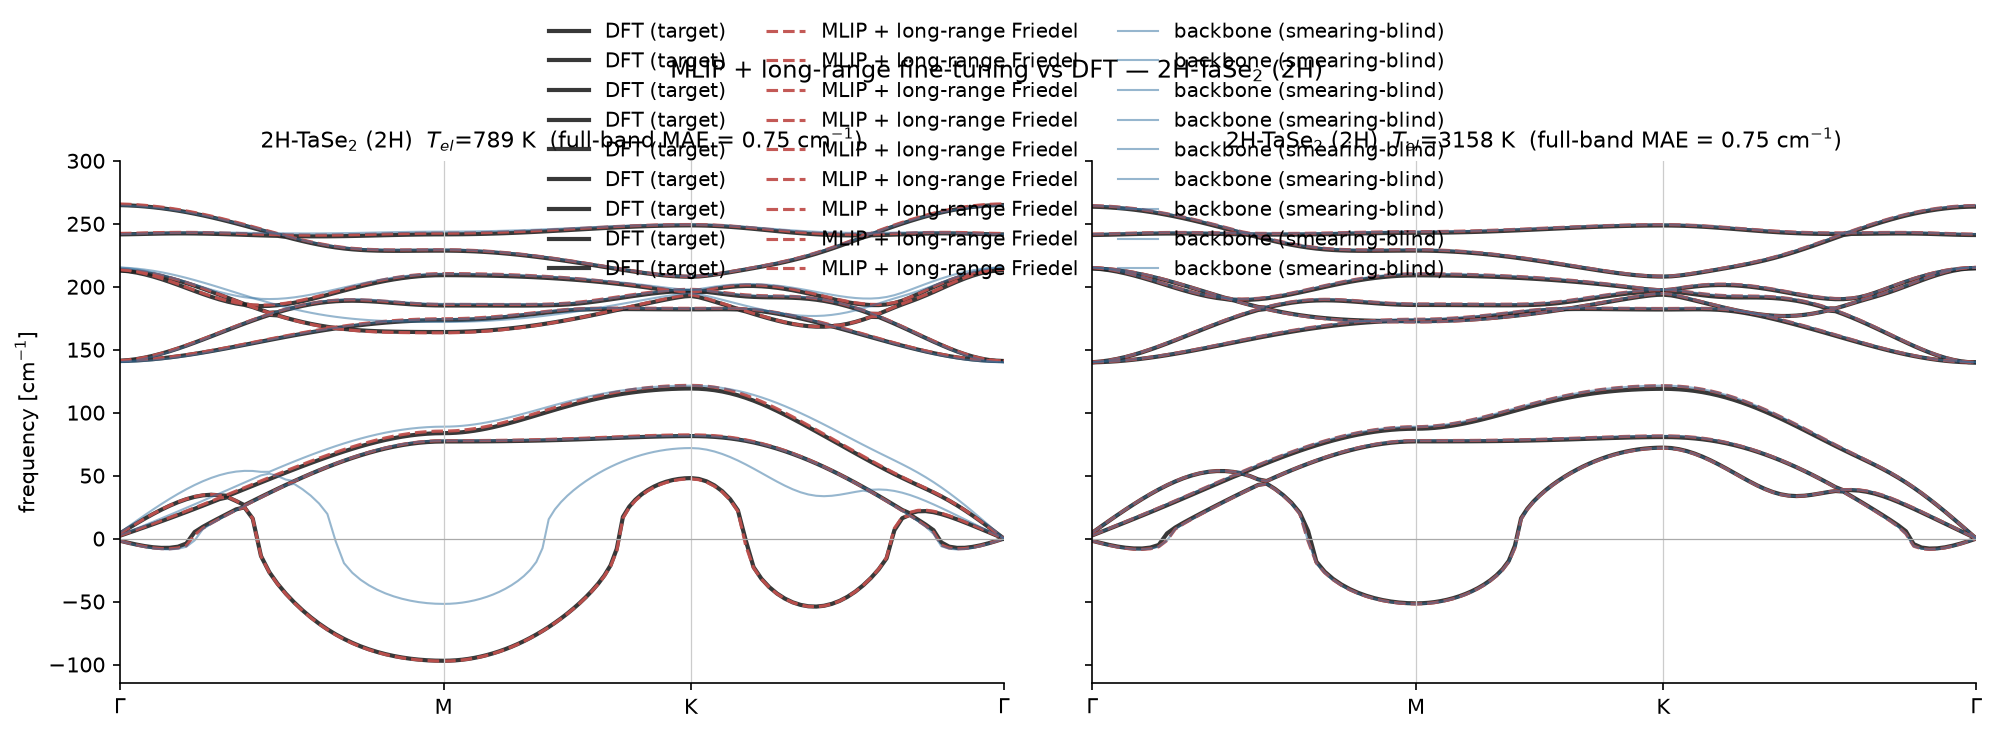
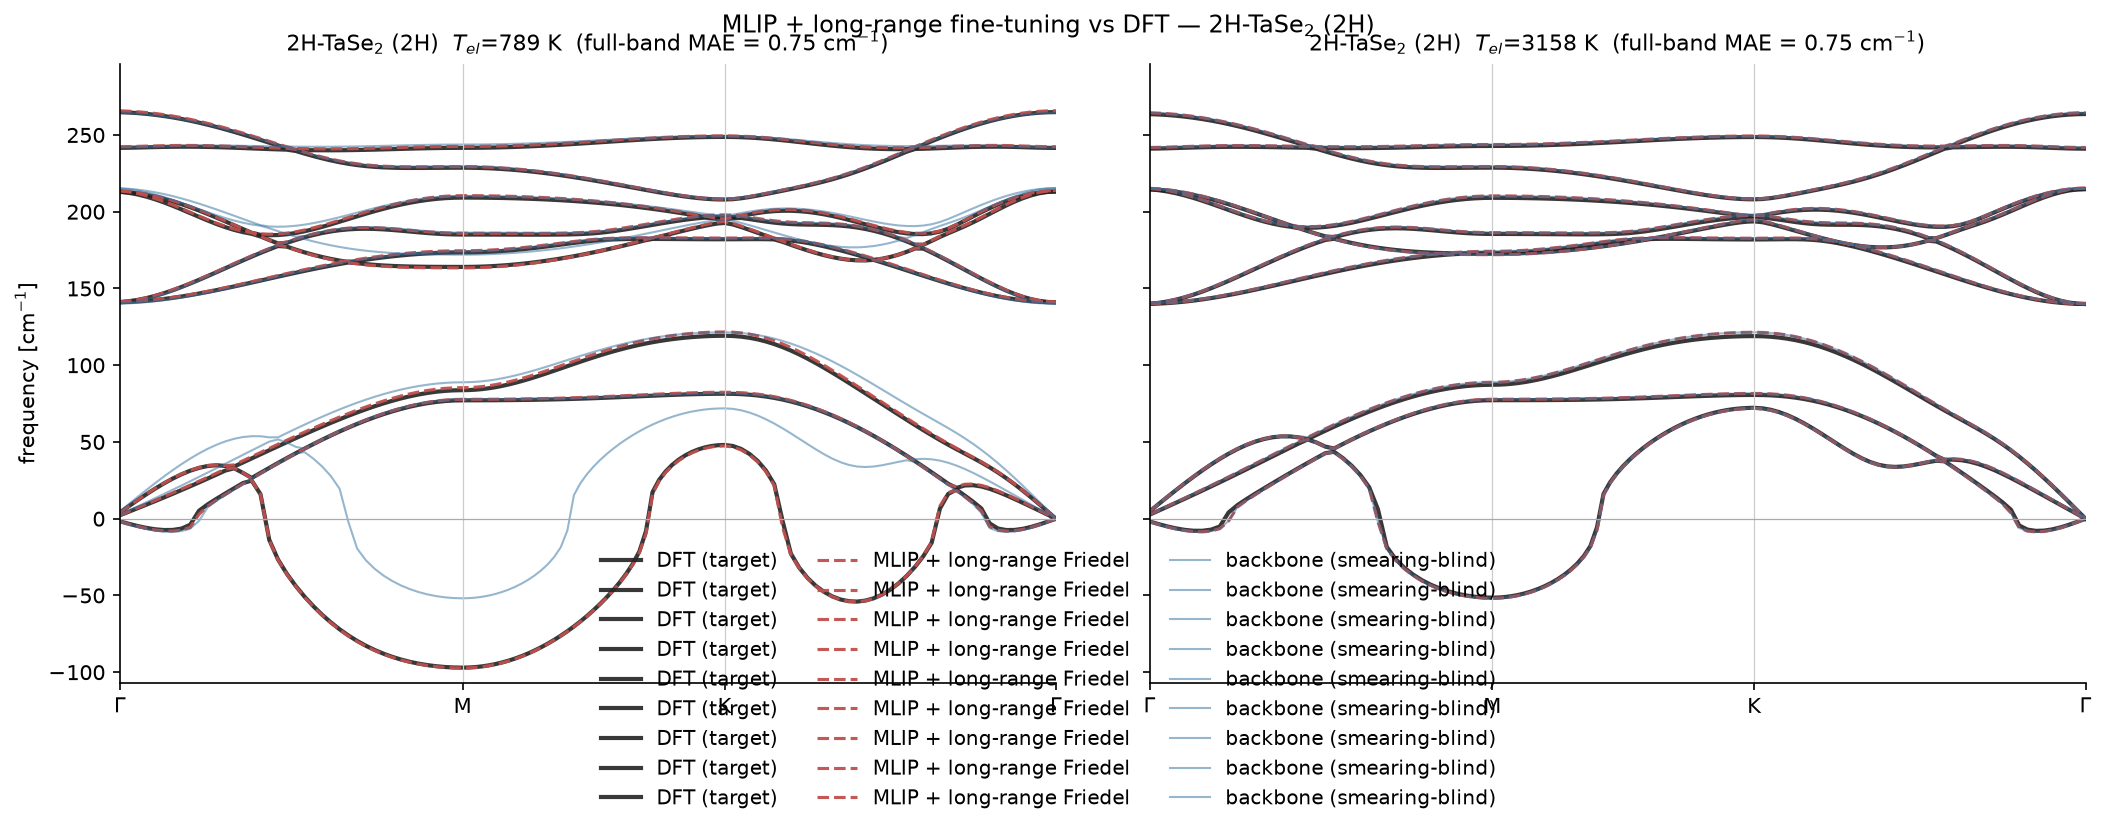
fix all figure issues: kink empty (E) panel (LaTeX filter bug), legend overlap (move to bottom), graphene crop (auto-ylim)
1. kink_vs_Tel_Tlat: (E) panel was empty — filter used LaTeX names ('1T-VSe$_2$') instead of
   plain CSV names ('1T-VSe2'). Fixed: separate filter-name from label.
2. deploy_vs_dft_*: legend moved from top (overlapped suptitle/bands) to bottom; ylim now
   auto-computed from data (graphene optical modes no longer cropped).
3. spectra_E: increased bottom margin (legend clear of panels).
4. spectra_L: legend moved from top to bottom (was clipped at figure edge).

diff --git a/scripts/smearing_kink/plot_phonon_spectra.py b/scripts/smearing_kink/plot_phonon_spectra.py
@@ -111,11 +111,11 @@ def plot_E():
         ax.set_ylabel("frequency [cm$^{-1}$]")
     # single shared legend OUTSIDE (below the panels) — generous bottom margin, no tight crop
     handles, labels = axes.flat[0].get_legend_handles_labels()
-    fig.legend(handles, labels, loc="lower center", ncol=4, bbox_to_anchor=(0.5, 0.015),
+    fig.legend(handles, labels, loc="lower center", ncol=4, bbox_to_anchor=(0.5, 0.005),
                frameon=False, fontsize=10, title="degauss (Ry) — darker = sharper Fermi surface")
     fig.suptitle("(E)-channel: phonon dispersion vs electronic smearing  (Kohn soft mode melts with T$_{el}$=degauss×157888 K)",
-                 fontsize=11.5, y=0.98)
-    fig.subplots_adjust(left=0.07, bottom=0.12, right=0.97, top=0.93, hspace=0.28, wspace=0.13)
+                 fontsize=11.5, y=0.99)
+    fig.subplots_adjust(left=0.07, bottom=0.17, right=0.97, top=0.93, hspace=0.30, wspace=0.13)
     out = SK / "spectra_E_smearing.png"
     fig.savefig(out, dpi=150, bbox_inches="tight"); print("wrote", out)
 
@@ -182,13 +182,13 @@ def plot_L_tdep():
     ax.axhline(0, color="#aaa", lw=0.6)
     ax.set_ylabel("frequency [cm$^{-1}$]"); ax.set_ylim(-15, 360)
     ax.set_xlim(ticks[0], ticks[-1])
-    # legend OUTSIDE (top, horizontal) so it never covers the bands
-    ax.legend(title="$T_{lat}$", loc="upper center", bbox_to_anchor=(0.5, 1.12), ncol=6,
+    # legend OUTSIDE (bottom, horizontal) so it never covers the bands
+    ax.legend(title="$T_{lat}$", loc="upper center", bbox_to_anchor=(0.5, -0.13), ncol=6,
               frameon=False, fontsize=8.5, title_fontsize=9)
     ax.set_title("(L) temperature spectrum — 1T-VSe$_2$  (TDEP effective fc$_2$(T), real freqs)", fontsize=10.5)
     for s in ("top", "right"):
         ax.spines[s].set_visible(False)
-    fig.subplots_adjust(left=0.10, bottom=0.10, right=0.97, top=0.80)
+    fig.subplots_adjust(left=0.10, bottom=0.20, right=0.97, top=0.92)
     out = SK / "spectra_L_temperature.png"
     fig.savefig(out, dpi=150, bbox_inches="tight"); print("wrote", out)
 
@@ -203,14 +203,14 @@ def plot_kink_comparison():
     melt_path = SK / "family_melting.csv"
     if melt_path.exists():
         melt = list(csv.DictReader(open(melt_path)))
-        for mat, col in [("1T-VSe$_2$", "#c0504d"), ("NbSe$_2$", "#2f6f9f"),
-                         ("2H-TaS$_2$", "#2f9f6f"), ("2H-TaSe$_2$", "#9f6f2f")]:
-            rows = sorted([r for r in melt if r["material"] == mat], key=lambda r: float(r["T_el_K"]))
+        for fmat, lab, col in [("1T-VSe2", "1T-VSe$_2$", "#c0504d"), ("NbSe2", "NbSe$_2$", "#2f6f9f"),
+                               ("2H-TaS2", "2H-TaS$_2$", "#2f9f6f"), ("2H-TaSe2", "2H-TaSe$_2$", "#9f6f2f")]:
+            rows = sorted([r for r in melt if r["material"] == fmat], key=lambda r: float(r["T_el_K"]))
             if not rows:
                 continue
             T = [float(r["T_el_K"]) for r in rows]
             d = [abs(float(r["minfreq_THz"])) for r in rows]
-            axE.plot(T, d, "-o", color=col, lw=1.8, ms=6, label=mat)
+            axE.plot(T, d, "-o", color=col, lw=1.8, ms=6, label=lab)
     axE.set_xlabel("electronic smearing  $T_{el}$ [K]  (degauss$\\times$157888)", fontsize=10)
     axE.set_ylabel("|Kohn soft-mode (kink depth)|  [THz]", fontsize=10)
     axE.set_title("(E): kink melts with smearing", fontsize=11)
@@ -252,7 +252,7 @@ def plot_kink_comparison():
     fig.savefig(out, dpi=150, bbox_inches="tight"); print("wrote", out)
 
 
-def plot_deploy_vs_dft(mat="NbSe2", label=None, ylim=(-115, 300)):
+def plot_deploy_vs_dft(mat="NbSe2", label=None, ylim=None):
     """MLIP+long-range vs DFT full spectrum (does the method reproduce DFT?).
     deployed (backbone + Friedel) vs DFT vs smearing-blind backbone."""
     npz = SK / f"deploy_vs_dft_{mat}.npz"
@@ -266,7 +266,7 @@ def plot_deploy_vs_dft(mat="NbSe2", label=None, ylim=(-115, 300)):
     tick_x = [x[0], x[seg_len - 1], x[2 * seg_len - 1], x[-1]]
     Ts = [int(t) for t in d["tel"]]
     lab = label or mat
-    fig, axes = plt.subplots(1, len(Ts), figsize=(6.8 * len(Ts), 5.2), sharey=True)
+    fig, axes = plt.subplots(1, len(Ts), figsize=(7.2 * len(Ts), 5.5), sharey=True)
     if len(Ts) == 1:
         axes = [axes]
     for ax, T in zip(axes, Ts):
@@ -281,15 +281,20 @@ def plot_deploy_vs_dft(mat="NbSe2", label=None, ylim=(-115, 300)):
         ax.axhline(0, color="#aaa", lw=0.6)
         mae = np.mean(np.abs(d[f"mlip_T{T}"] - d[f"dft_T{T}"]))
         ax.set_title(f"{lab}  $T_{{el}}$={T} K  (full-band MAE = {mae:.2f} cm$^{{-1}}$)", fontsize=10.5)
-        ax.set_xlim(tick_x[0], tick_x[-1]); ax.set_ylim(*ylim)
+        ax.set_xlim(tick_x[0], tick_x[-1])
         for s in ("top", "right"):
             ax.spines[s].set_visible(False)
+    # auto ylim from data (no cropping); or use provided
+    if ylim is None:
+        allf = np.concatenate([d[f"dft_T{T}"].ravel() for T in Ts] + [d["backbone"].ravel()])
+        ylim = (min(allf.min() * 1.1, -10), allf.max() * 1.1 + 5)
+    axes[0].set_ylim(*ylim)
     axes[0].set_ylabel("frequency [cm$^{-1}$]")
     handles, labels = axes[0].get_legend_handles_labels()
-    fig.legend(handles, labels, loc="upper center", ncol=3, bbox_to_anchor=(0.5, 1.0),
+    fig.legend(handles, labels, loc="lower center", ncol=3, bbox_to_anchor=(0.5, 0.005),
                frameon=False, fontsize=9.5)
-    fig.suptitle(f"MLIP + long-range fine-tuning vs DFT — {lab}", fontsize=11.5, y=0.93)
-    fig.subplots_adjust(left=0.07, bottom=0.13, right=0.98, top=0.80, wspace=0.10)
+    fig.suptitle(f"MLIP + long-range fine-tuning vs DFT — {lab}", fontsize=11.5, y=0.99)
+    fig.subplots_adjust(left=0.07, bottom=0.18, right=0.98, top=0.93, wspace=0.10)
     out = SK / f"deploy_vs_dft_{mat}.png"
     fig.savefig(out, dpi=150, bbox_inches="tight"); print("wrote", out)
 
